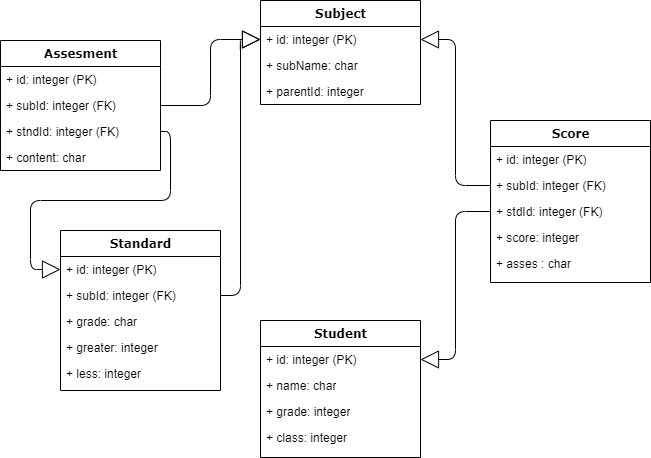
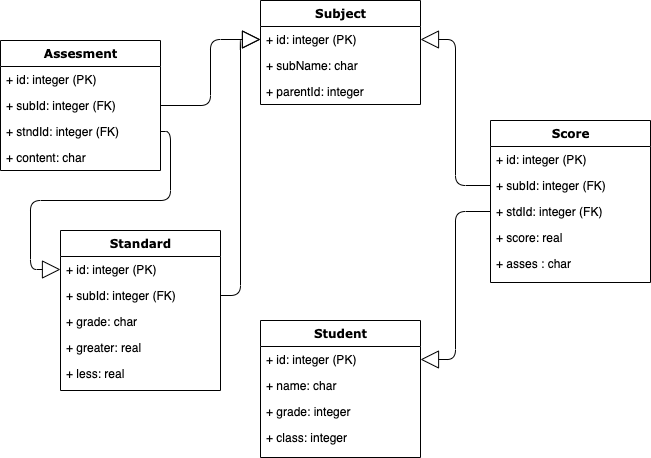
점수입력 버그 수정

diff --git a/subjectManage.py b/subjectManage.py
@@ -243,11 +243,11 @@ def addGrdStnd(self):
         if(grade != ""):
             whats = ""
             if(greater != "" and less != ""):
-                if(int(greater) >= int(less)):
+                if(float(greater) >= float(less)):
                     return QMessageBox.about(self, "주의", "점수 범위 입력 오류.")
             item = QListWidgetItem(grade)
             List.addItem(item)
-            backend.createStandard(int(subId), grade, int(greater), int(less))
+            backend.createStandard(int(subId), grade, float(greater), float(less))
         else:
             return QMessageBox.about(self, "주의", "이름을 입력하세요.")
         
@@ -267,7 +267,7 @@ def modGrdStnd(self):
         name = win.stndName.toPlainText()
         greater = win.stndGre.toPlainText()
         less = win.stndLess.toPlainText()
-        backend.updateStandard(int(stndId), name, int(greater), int(less))
+        backend.updateStandard(int(stndId), name, float(greater), float(less))
         searchSub(self)
         return QMessageBox.about(self, "알림", "등급 기준 수정완료.")
 

diff --git a/backend.py b/backend.py
@@ -23,8 +23,8 @@ SQL_CREATE_STANDARD_TABLE = """ CREATE TABLE IF NOT EXISTS"Standard" (
 	"id"	INTEGER PRIMARY KEY AUTOINCREMENT,
 	"subId"	INTEGER,
 	"grade"	TEXT,
-	"greater"	INTEGER,
-	"less"	INTEGER,
+	"greater"	REAL,
+	"less"	REAL,
 	FOREIGN KEY("subId") REFERENCES "Subject"("id")
 ) """
 
